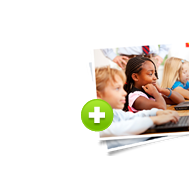
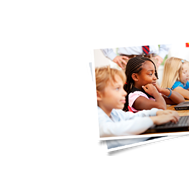
GS-12900 Profile Redesign Walton: Master profile redesign - update "add photos" and "share your experience"

Changed region(s): [[0.4233, 0.5337, 0.6085, 0.7584]]

diff --git a/src/webapp/res/css/02_module/mod_skins-v1.css b/src/webapp/res/css/02_module/mod_skins-v1.css
@@ -297,7 +297,7 @@ General comments:
 
 .bg-addPhotos { background: url("/res/img/module/background/addPhotos.png") no-repeat right bottom; }
 .bg-districtMap { background: url("/res/img/module/background/districtMap.png") no-repeat right bottom; }
-.bg-writeReviews { background: url("/res/img/module/background/reviews.png") no-repeat right 30px; }
+.bg-writeReviews { background: url("/res/img/module/background/reviews.png") no-repeat right 0; }
 .bg-mobileApp { background: url("/res/img/module/background/mobile.png") no-repeat right bottom; }
 .bg-checklist { background: url("/res/img/module/background/checklist.png") no-repeat right bottom;}
 .bg-principal { background: url("/res/img/school/enrollment/principal.png") no-repeat;}
